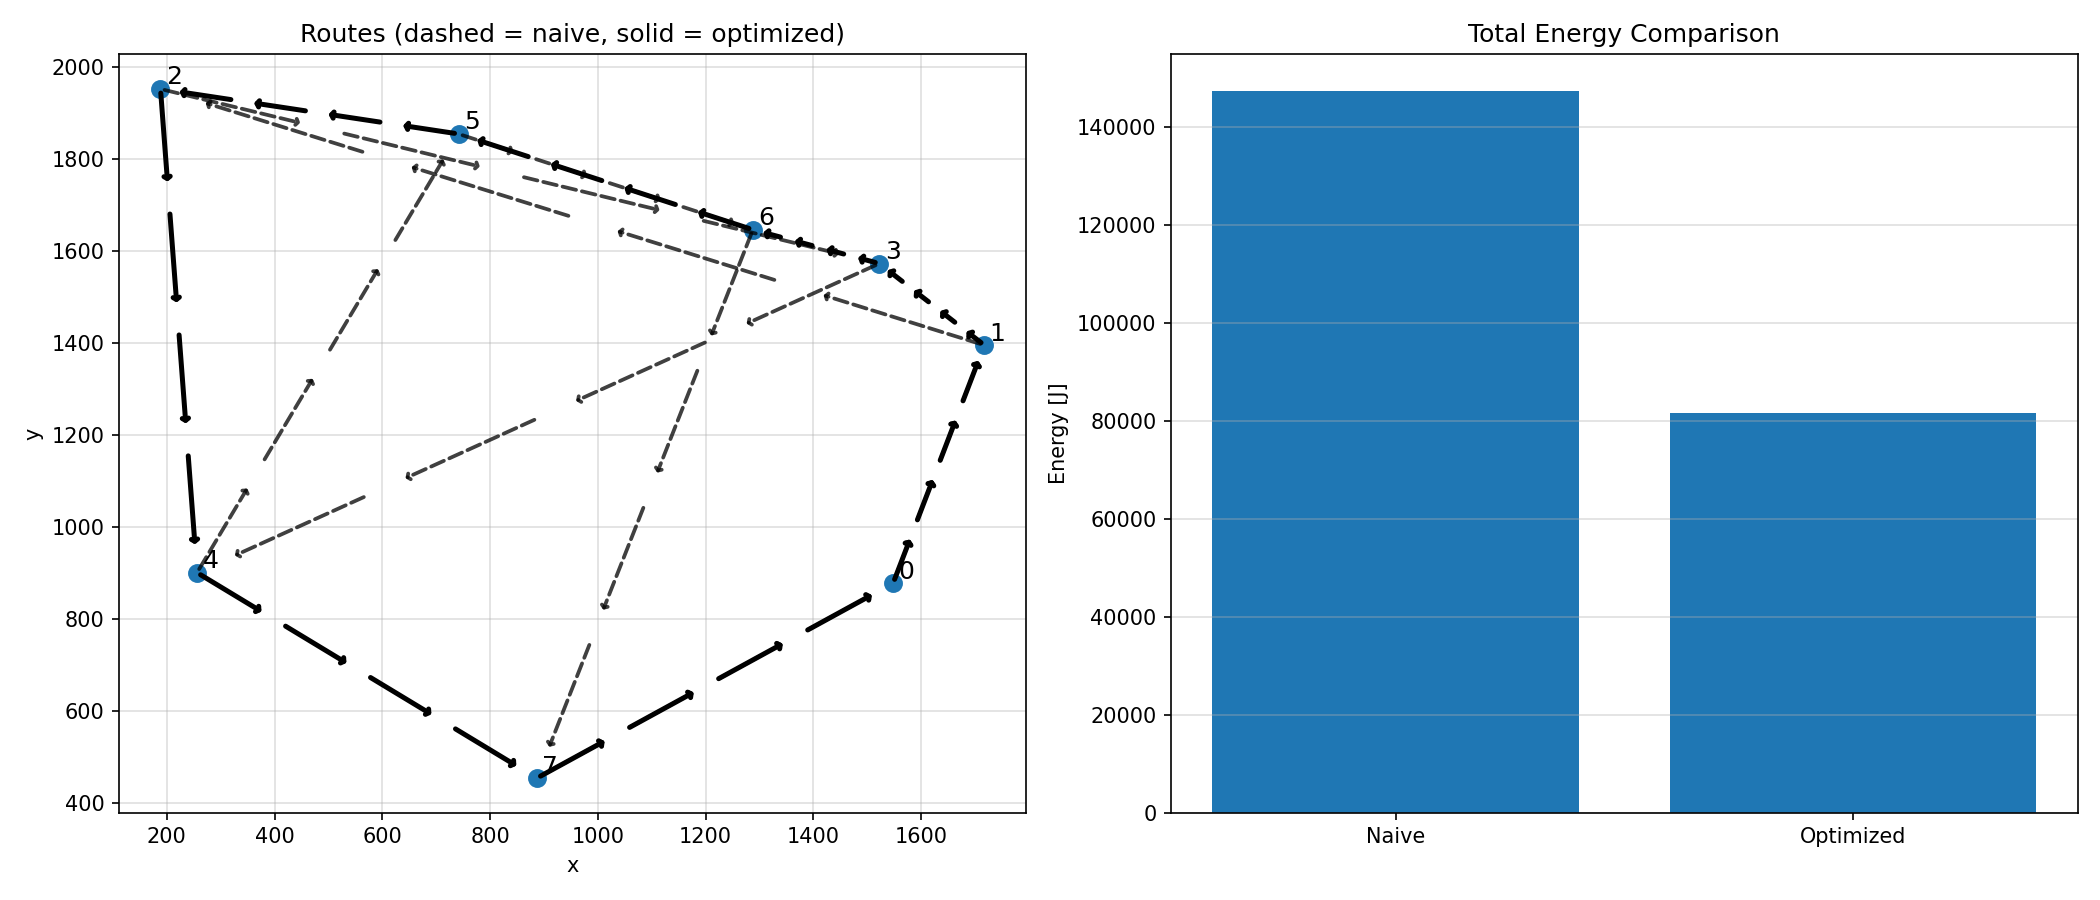
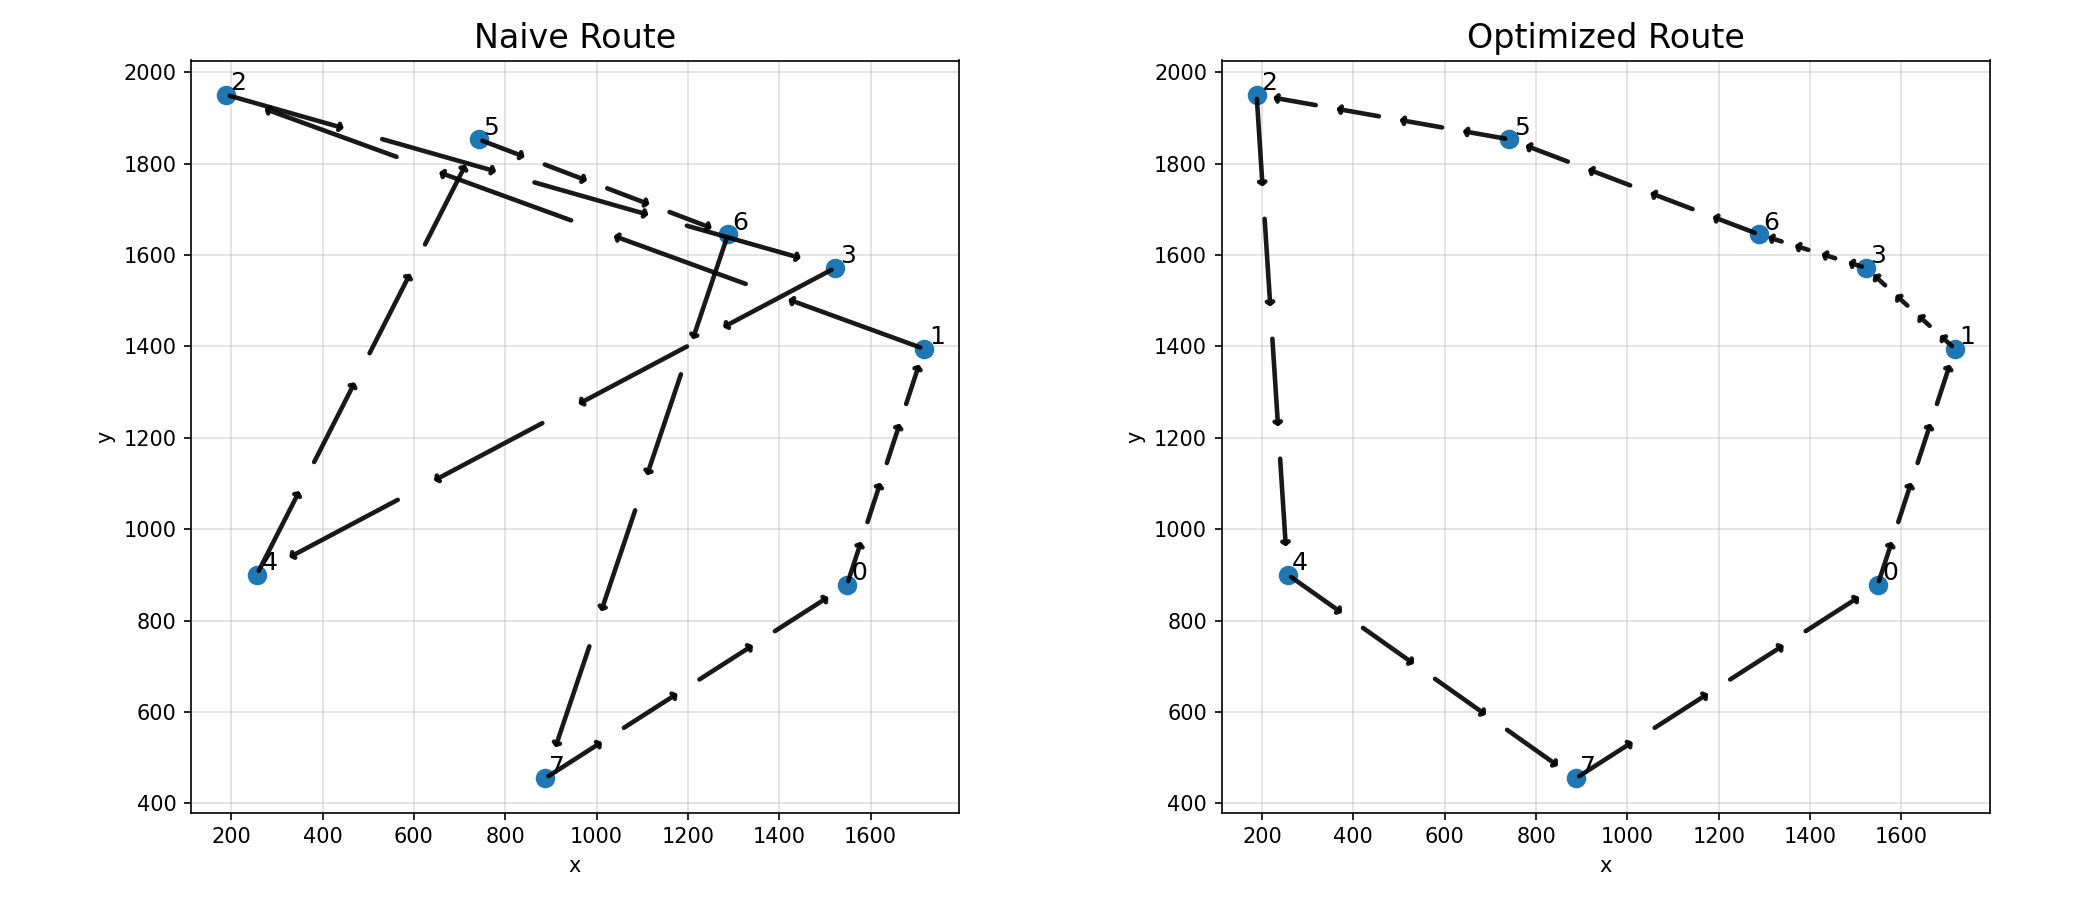
improve graphs

diff --git a/final_project/plotting.py b/final_project/plotting.py
@@ -3,7 +3,6 @@
 from __future__ import annotations
 
 from pathlib import Path
-from typing import TYPE_CHECKING
 
 import matplotlib.pyplot as plt
 import numpy as np
@@ -11,20 +10,17 @@ from matplotlib.axes import Axes
 
 from physics import DronePhysics
 
-if TYPE_CHECKING:
-    pass
-
 PLOTS_DIR = Path(__file__).resolve().parent / "plots"
 
 
 class Visualizer:
     """Plots energy vs time and 2D route maps."""
 
+    # -----------------------------------------------------------
+    # Energy vs Time (unchanged)
+    # -----------------------------------------------------------
+
     def plot_energy_curve(self, physics_model: DronePhysics, distance: float) -> None:
-        """
-        Plot U-shaped Energy vs Time curve for a segment of fixed distance,
-        and mark Tmin.
-        """
         T_low, T_high = physics_model.feasible_time_bounds(distance)
 
         Ts = np.linspace(T_low, T_high, 220)
@@ -34,7 +30,7 @@ class Visualizer:
         T_opt = float(Ts[idx])
         E_opt = float(Es[idx])
 
-        fig, ax = plt.subplots(figsize=(8, 5))
+        fig, ax = plt.subplots(figsize=(9, 5.5))
         ax.plot(Ts, Es, linewidth=2, label="Energy vs Time")
 
         ax.scatter([T_opt], [E_opt], s=90, zorder=5, label=f"Tmin={T_opt:.2f}s")
@@ -42,8 +38,8 @@ class Visualizer:
 
         ax.set_xlabel("Segment Time T [s]", fontsize=14)
         ax.set_ylabel("Energy [J]", fontsize=14)
-        ax.set_title(f"Segment Energy vs Time (d = {distance:.0f} m)", fontsize=16)
-        ax.grid(True, alpha=0.6)
+        ax.set_title(f"Segment Energy vs Time (d = {distance:.0f} m)", fontsize=18)
+        ax.grid(True, alpha=0.5)
         ax.legend(fontsize=11)
         fig.tight_layout()
 
@@ -51,28 +47,32 @@ class Visualizer:
         fig.savefig(PLOTS_DIR / "energy_curve.png", dpi=150)
         plt.close(fig)
 
-    def plot_route(
+    # -----------------------------------------------------------
+    # TWO PANEL ROUTE PLOT (naive + optimized)
+    # -----------------------------------------------------------
+
+    def plot_routes(
         self,
         waypoints: np.ndarray,
-        optimal_order: list[int],
-        optimal_energy: float,
         naive_order: list[int],
-        naive_energy: float,
+        optimal_order: list[int],
     ) -> None:
-        """
-        Plot route map and energy comparison bars.
-        """
-        fig, (ax_route, ax_bars) = plt.subplots(1, 2, figsize=(14, 6))
+        fig, (ax_naive, ax_opt) = plt.subplots(1, 2, figsize=(14, 6))
 
-        num_arrows_per_segment = 4
-        arrow_style = "->,head_width=0.15,head_length=0.1"
+        def draw_route(ax: Axes, order: list[int], title: str) -> None:
+            ax.scatter(waypoints[:, 0], waypoints[:, 1], s=70, zorder=3)
 
-        def draw_route(ax: Axes, order: list[int], linestyle: str, lw: float) -> None:
+            for idx, (x, y) in enumerate(waypoints):
+                ax.text(x + 10, y + 10, str(idx), fontsize=12)
+
+            num_arrows_per_segment = 4
+            arrow_style = "->,head_width=0.15,head_length=0.1"
+
             for k in range(len(order)):
                 i = order[k]
                 j = order[(k + 1) % len(order)]
-                xi, yi = waypoints[i, 0], waypoints[i, 1]
-                xj, yj = waypoints[j, 0], waypoints[j, 1]
+                xi, yi = waypoints[i]
+                xj, yj = waypoints[j]
 
                 for t in np.linspace(0, 1, num_arrows_per_segment + 1)[:-1]:
                     t_next = t + 1.0 / (num_arrows_per_segment + 1)
@@ -80,40 +80,53 @@ class Visualizer:
                     y0 = yi + t * (yj - yi)
                     x1 = xi + t_next * (xj - xi)
                     y1 = yi + t_next * (yj - yi)
+
                     ax.annotate(
                         "",
                         xy=(x1, y1),
                         xytext=(x0, y0),
                         arrowprops=dict(
                             arrowstyle=arrow_style,
-                            linestyle=linestyle,
-                            lw=lw,
-                            alpha=0.75 if linestyle == "--" else 1.0,
+                            lw=2.2,
+                            alpha=0.9,
                         ),
                     )
 
-        # route panel
-        ax_route.scatter(waypoints[:, 0], waypoints[:, 1], s=65, zorder=3)
-        for idx, (x, y) in enumerate(waypoints):
-            ax_route.text(x + 10, y + 10, str(idx), fontsize=12)
+            ax.set_title(title, fontsize=16)
+            ax.set_xlabel("x")
+            ax.set_ylabel("y")
+            ax.grid(True, alpha=0.4)
+            ax.set_aspect("equal", adjustable="box")
 
-        draw_route(ax_route, naive_order, linestyle="--", lw=1.8)
-        draw_route(ax_route, optimal_order, linestyle="-", lw=2.4)
-
-        ax_route.set_title("Routes (dashed = naive, solid = optimized)")
-        ax_route.set_xlabel("x")
-        ax_route.set_ylabel("y")
-        ax_route.grid(True, alpha=0.4)
-
-        # bar panel
-        labels = ["Naive", "Optimized"]
-        vals = [naive_energy, optimal_energy]
-        ax_bars.bar(labels, vals)
-        ax_bars.set_title("Total Energy Comparison")
-        ax_bars.set_ylabel("Energy [J]")
-        ax_bars.grid(True, axis="y", alpha=0.4)
+        draw_route(ax_naive, naive_order, "Naive Route")
+        draw_route(ax_opt, optimal_order, "Optimized Route")
 
         fig.tight_layout()
         PLOTS_DIR.mkdir(parents=True, exist_ok=True)
         fig.savefig(PLOTS_DIR / "route_map.png", dpi=150)
+        plt.close(fig)
+
+    # -----------------------------------------------------------
+    # TOTAL ENERGY SEPARATE FIGURE
+    # -----------------------------------------------------------
+
+    def plot_total_energy(
+        self,
+        naive_energy: float,
+        optimized_energy: float,
+        filename: str = "total_energy.png",
+    ) -> None:
+        fig, ax = plt.subplots(figsize=(7.5, 5.5))
+
+        labels = ["Naive", "Optimized"]
+        vals = [naive_energy, optimized_energy]
+
+        ax.bar(labels, vals)
+        ax.set_title("Total Energy Comparison", fontsize=18)
+        ax.set_ylabel("Energy [J]", fontsize=13)
+        ax.grid(True, axis="y", alpha=0.4)
+
+        fig.tight_layout()
+        PLOTS_DIR.mkdir(parents=True, exist_ok=True)
+        fig.savefig(PLOTS_DIR / filename, dpi=150)
         plt.close(fig)

diff --git a/final_project/main.py b/final_project/main.py
@@ -76,15 +76,25 @@ def main(simulation_config: SimulationConfig | None = None, tsp_method: str = "b
 
     visualizer = Visualizer()
     visualizer.plot_energy_curve(physics, distance=1000.0)
-    visualizer.plot_route(
-        waypoints,
-        optimal_order,
-        optimal_energy,
-        naive_order,
-        naive_energy,
+
+    # Two-panel naive vs optimized route
+    visualizer.plot_routes(
+        waypoints=waypoints,
+        naive_order=naive_order,
+        optimal_order=optimal_order,
     )
 
-    print("\nPlots saved: plots/energy_curve.png, plots/route_map.png")
+    # Separate total energy figure
+    visualizer.plot_total_energy(
+        naive_energy=naive_energy,
+        optimized_energy=optimal_energy,
+        filename="total_energy.png",
+    )
+
+    print("\nPlots saved:")
+    print(" - plots/energy_curve.png")
+    print(" - plots/route_map.png")
+    print(" - plots/total_energy.png")
 
 
 if __name__ == "__main__":
